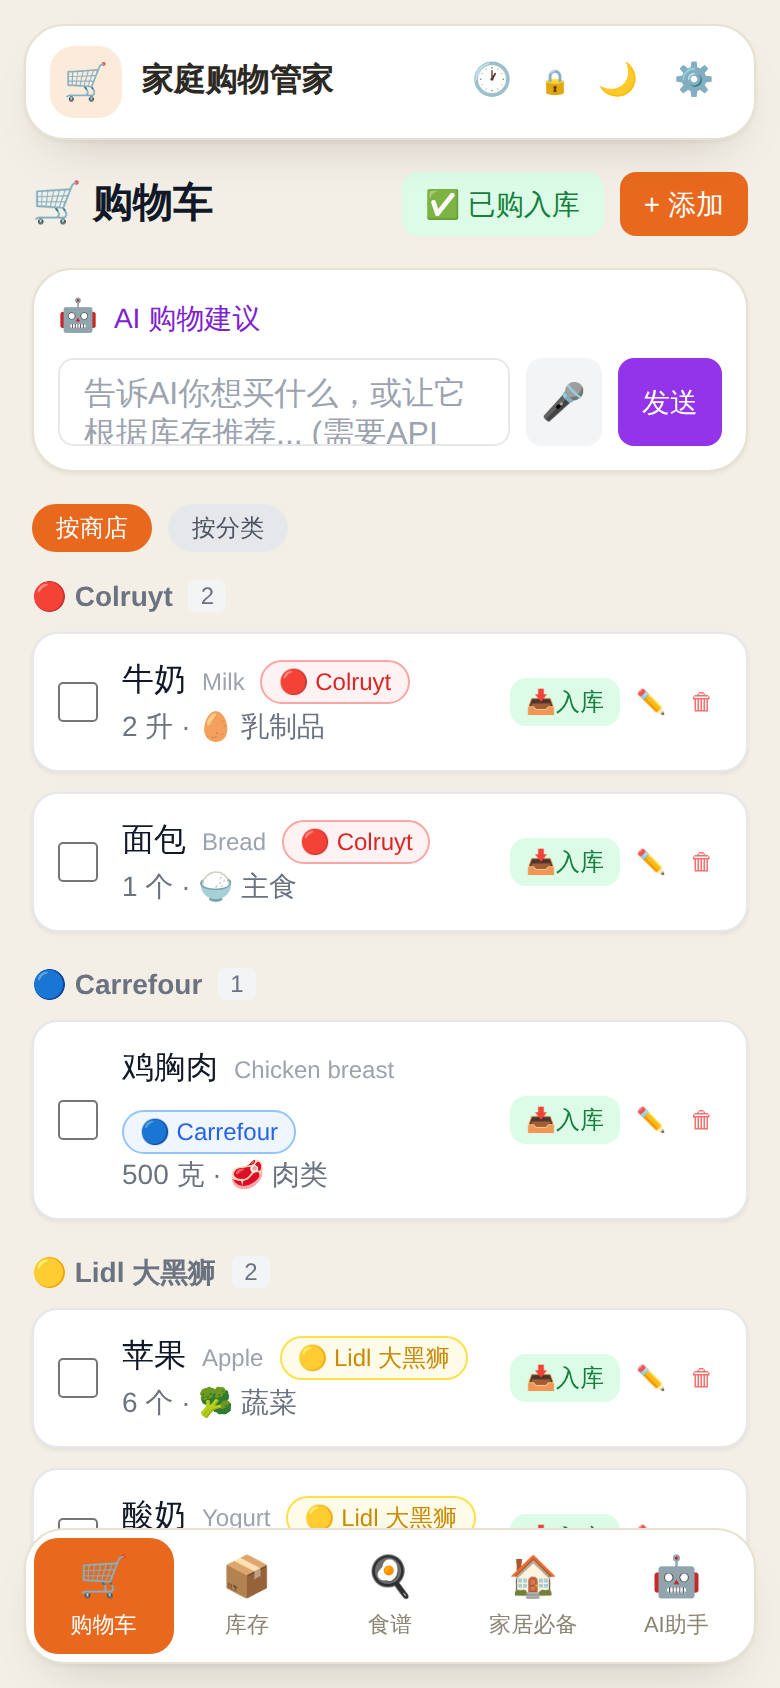
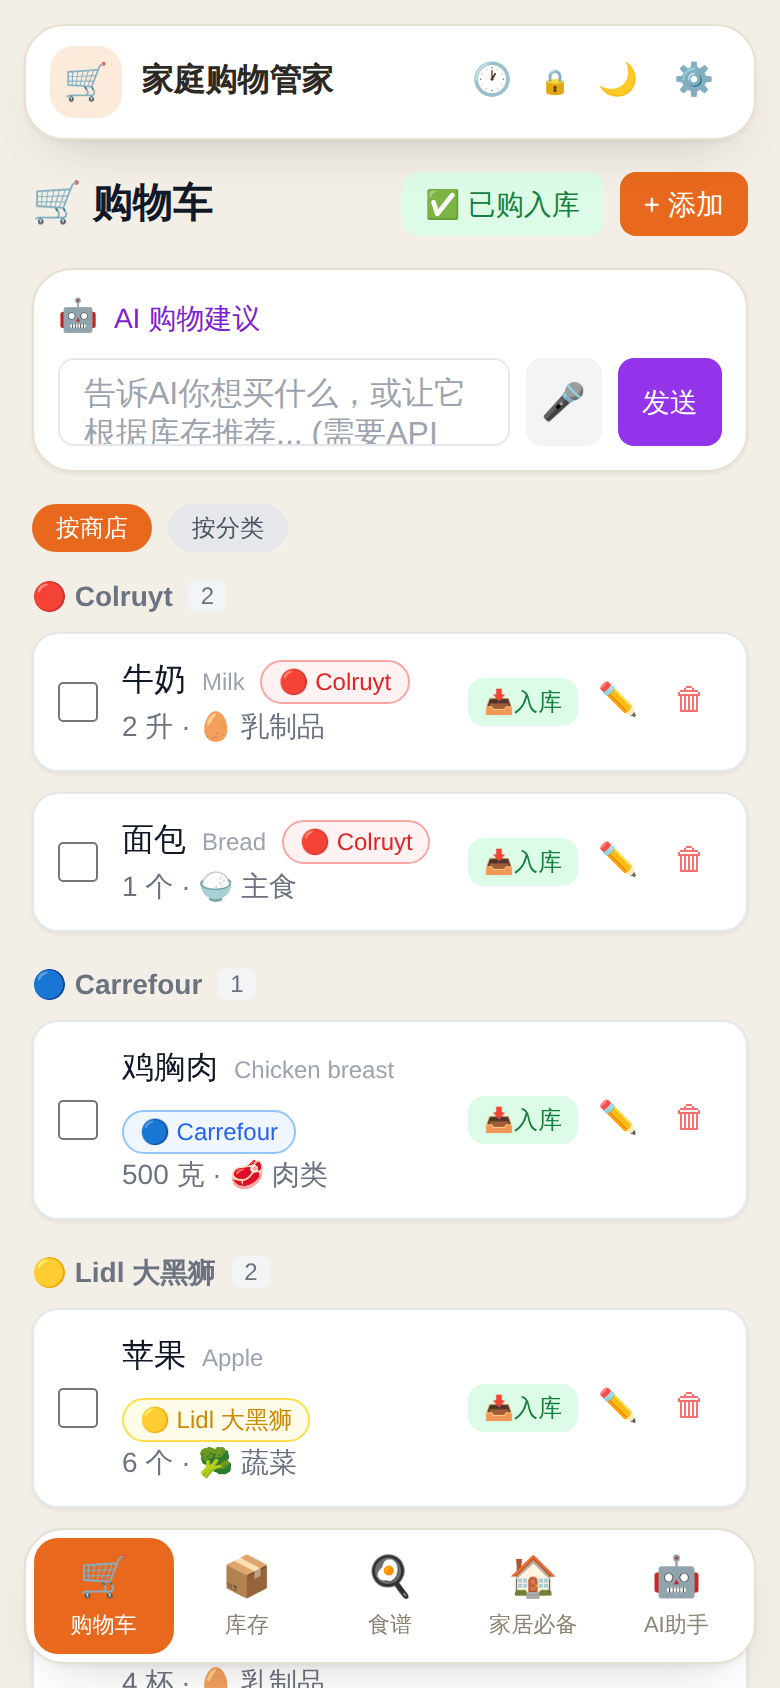
Lay inventory and household cards out in two rows everywhere
After the tap targets grew to 32px, a card at 320px — which is what both a
phone and one column of the desktop grid give it — had 64–70px left for the
name, and the category <select> truncated to its first character.

The card is now two rows: name and badges with the edit / cart / delete
icons on the first, the category select with − quantity + on the second. A
zero-height basis-full element forces the wrap, so no order tricks and no
responsive variants are needed; the same markup serves every width. Height
is unchanged at 96px, because name and select were already stacked in the
old layout. Measured at 360, 390 and 1024px: select renders its full
label, nothing overflows.

README screenshots regenerated to match.

Claude-Session: https://claude.ai/code/session_0178JdsXiQApUksyqeBxJYPQ

diff --git a/index.html b/index.html
@@ -2272,27 +2272,29 @@ const Inventory = {
         <span class="text-sm font-medium min-w-10 text-center">${esc(formatQty(item.quantity, item.unit))}</span>
         <button onclick="Inventory.adjustQty(${jsArg(item.id)},1)" class="w-8 h-8 rounded-lg bg-gray-100 dark:bg-gray-700 hover:bg-gray-200 dark:hover:bg-gray-600 flex items-center justify-center text-gray-600 dark:text-gray-300 font-bold">+</button>`;
     return `
-    <div class="item-card bg-white dark:bg-gray-800 rounded-xl p-3 border ${isLow ? 'border-red-300 dark:border-red-700' : unlimited ? 'border-purple-200 dark:border-purple-700' : 'border-gray-200 dark:border-gray-700'} flex items-center gap-2">
-      <div class="flex-1 min-w-0">
-        <div class="flex items-center gap-2 flex-wrap">
-          <span class="font-medium name-cn">${esc(item.nameCn)}</span>
-          ${item.nameEn ? `<span class="text-xs text-gray-400 name-en">${esc(item.nameEn)}</span>` : ''}
-          ${isLow ? '<span class="text-xs bg-red-100 dark:bg-red-900 text-red-600 dark:text-red-400 px-1.5 py-0.5 rounded">低库存</span>' : ''}
-          ${unlimited ? '<span class="text-xs bg-purple-100 dark:bg-purple-900 text-purple-600 dark:text-purple-400 px-1.5 py-0.5 rounded">常备</span>' : ''}
-        </div>
-        <div class="flex items-center gap-1 flex-wrap mt-0.5">
-          <select onchange="Inventory.changeCategory(${jsArg(item.id)},this.value)" class="text-xs max-w-full min-w-0 bg-gray-100 dark:bg-gray-700 border-0 rounded px-1 py-0.5 text-gray-500 dark:text-gray-400 cursor-pointer focus:outline-none focus:ring-1 focus:ring-blue-400">
-            ${catOptions(item.category)}
-          </select>
-          ${item.notes ? `<span class="text-xs text-gray-400">${esc(item.notes)}</span>` : ''}
-        </div>
+    <!-- 两行：「名称 | ✏🛒🗑」「分类 | − 数量 +」。手机和桌面都这样——桌面是三列网格，
+         一张卡也就 320px 宽，按钮放大到 32px 之后一行排不下；而名称 + 分类本来就叠成
+         两行，所以改成两行高度不变。中间那个 basis-full 的空元素负责强制换行。 -->
+    <div class="item-card bg-white dark:bg-gray-800 rounded-xl p-3 border ${isLow ? 'border-red-300 dark:border-red-700' : unlimited ? 'border-purple-200 dark:border-purple-700' : 'border-gray-200 dark:border-gray-700'} flex flex-wrap items-center gap-x-2 gap-y-0">
+      <div class="flex-1 min-w-0 flex items-center gap-2 flex-wrap">
+        <span class="font-medium name-cn">${esc(item.nameCn)}</span>
+        ${item.nameEn ? `<span class="text-xs text-gray-400 name-en">${esc(item.nameEn)}</span>` : ''}
+        ${isLow ? '<span class="text-xs bg-red-100 dark:bg-red-900 text-red-600 dark:text-red-400 px-1.5 py-0.5 rounded">低库存</span>' : ''}
+        ${unlimited ? '<span class="text-xs bg-purple-100 dark:bg-purple-900 text-purple-600 dark:text-purple-400 px-1.5 py-0.5 rounded">常备</span>' : ''}
       </div>
-      <div class="flex items-center gap-1 shrink-0">${qtyDisplay}</div>
       <div class="flex items-center gap-1 shrink-0">
         <button onclick="Modal.showEditInventory(${jsArg(item.id)})" class="w-8 h-8 flex items-center justify-center rounded-lg text-base text-blue-500 hover:bg-blue-50 dark:hover:bg-gray-700">✏</button>
         ${!unlimited ? `<button onclick="Inventory.addToCart(${jsArg(item.id)})" class="w-8 h-8 flex items-center justify-center rounded-lg text-base text-green-500 hover:bg-green-50 dark:hover:bg-gray-700" title="加入购物车">🛒</button>` : ''}
         <button onclick="Inventory.remove(${jsArg(item.id)})" class="w-8 h-8 flex items-center justify-center rounded-lg text-base text-red-400 hover:bg-red-50 dark:hover:bg-gray-700">🗑</button>
       </div>
+      <div class="basis-full h-0"></div>
+      <div class="flex-1 min-w-0 flex items-center gap-1 flex-wrap mt-1.5">
+        <select onchange="Inventory.changeCategory(${jsArg(item.id)},this.value)" class="text-xs max-w-full min-w-0 bg-gray-100 dark:bg-gray-700 border-0 rounded px-1 py-0.5 text-gray-500 dark:text-gray-400 cursor-pointer focus:outline-none focus:ring-1 focus:ring-blue-400">
+          ${catOptions(item.category)}
+        </select>
+        ${item.notes ? `<span class="text-xs text-gray-400">${esc(item.notes)}</span>` : ''}
+      </div>
+      <div class="flex items-center gap-1 shrink-0 mt-1.5">${qtyDisplay}</div>
     </div>`;
   },
 
@@ -2827,29 +2829,29 @@ const Household = {
 
   renderItem(item) {
     const isLow = item.minStock > 0 && item.quantity <= item.minStock;
-    return `<div class="item-card bg-white dark:bg-gray-800 rounded-xl p-3 border ${isLow ? 'border-red-300 dark:border-red-700' : 'border-gray-200 dark:border-gray-700'} flex items-center gap-2">
-      <div class="flex-1 min-w-0">
-        <div class="flex items-center gap-2 flex-wrap">
-          <span class="font-medium name-cn">${esc(item.nameCn)}</span>
-          ${item.nameEn ? `<span class="text-xs text-gray-400 name-en">${esc(item.nameEn)}</span>` : ''}
-          ${isLow ? '<span class="text-xs bg-red-100 dark:bg-red-900 text-red-600 dark:text-red-400 px-1.5 py-0.5 rounded">低库存</span>' : ''}
-        </div>
-        <div class="flex items-center gap-1 flex-wrap mt-0.5">
-          <select onchange="Household.changeCategory(${jsArg(item.id)},this.value)" class="text-xs max-w-full min-w-0 bg-gray-100 dark:bg-gray-700 border-0 rounded px-1 py-0.5 text-gray-500 dark:text-gray-400 cursor-pointer focus:outline-none focus:ring-1 focus:ring-blue-400">
-            ${catOptions(item.category)}
-          </select>
-          ${item.notes ? `<span class="text-xs text-gray-400">${esc(item.notes)}</span>` : ''}
-        </div>
-      </div>
-      <div class="flex items-center gap-1 shrink-0">
-        <button onclick="Household.adjustQty(${jsArg(item.id)},-1)" class="w-8 h-8 rounded-lg bg-gray-100 dark:bg-gray-700 hover:bg-gray-200 dark:hover:bg-gray-600 flex items-center justify-center font-bold">−</button>
-        <span class="text-sm font-medium min-w-10 text-center">${esc(formatQty(item.quantity, item.unit))}</span>
-        <button onclick="Household.adjustQty(${jsArg(item.id)},1)" class="w-8 h-8 rounded-lg bg-gray-100 dark:bg-gray-700 hover:bg-gray-200 dark:hover:bg-gray-600 flex items-center justify-center font-bold">+</button>
+    // 布局和 Inventory.renderItem 一样：两行，见那边的注释
+    return `<div class="item-card bg-white dark:bg-gray-800 rounded-xl p-3 border ${isLow ? 'border-red-300 dark:border-red-700' : 'border-gray-200 dark:border-gray-700'} flex flex-wrap items-center gap-x-2 gap-y-0">
+      <div class="flex-1 min-w-0 flex items-center gap-2 flex-wrap">
+        <span class="font-medium name-cn">${esc(item.nameCn)}</span>
+        ${item.nameEn ? `<span class="text-xs text-gray-400 name-en">${esc(item.nameEn)}</span>` : ''}
+        ${isLow ? '<span class="text-xs bg-red-100 dark:bg-red-900 text-red-600 dark:text-red-400 px-1.5 py-0.5 rounded">低库存</span>' : ''}
       </div>
       <div class="flex items-center gap-1 shrink-0">
         <button onclick="Modal.showEditHousehold(${jsArg(item.id)})" class="w-8 h-8 flex items-center justify-center rounded-lg text-base text-blue-500 hover:bg-blue-50 dark:hover:bg-gray-700">✏</button>
         <button onclick="Household.addToCart(${jsArg(item.id)})" class="w-8 h-8 flex items-center justify-center rounded-lg text-base text-green-500 hover:bg-green-50 dark:hover:bg-gray-700" title="加入购物车">🛒</button>
         <button onclick="Household.remove(${jsArg(item.id)})" class="w-8 h-8 flex items-center justify-center rounded-lg text-base text-red-400 hover:bg-red-50 dark:hover:bg-gray-700">🗑</button>
+      </div>
+      <div class="basis-full h-0"></div>
+      <div class="flex-1 min-w-0 flex items-center gap-1 flex-wrap mt-1.5">
+        <select onchange="Household.changeCategory(${jsArg(item.id)},this.value)" class="text-xs max-w-full min-w-0 bg-gray-100 dark:bg-gray-700 border-0 rounded px-1 py-0.5 text-gray-500 dark:text-gray-400 cursor-pointer focus:outline-none focus:ring-1 focus:ring-blue-400">
+          ${catOptions(item.category)}
+        </select>
+        ${item.notes ? `<span class="text-xs text-gray-400">${esc(item.notes)}</span>` : ''}
+      </div>
+      <div class="flex items-center gap-1 shrink-0 mt-1.5">
+        <button onclick="Household.adjustQty(${jsArg(item.id)},-1)" class="w-8 h-8 rounded-lg bg-gray-100 dark:bg-gray-700 hover:bg-gray-200 dark:hover:bg-gray-600 flex items-center justify-center font-bold">−</button>
+        <span class="text-sm font-medium min-w-10 text-center">${esc(formatQty(item.quantity, item.unit))}</span>
+        <button onclick="Household.adjustQty(${jsArg(item.id)},1)" class="w-8 h-8 rounded-lg bg-gray-100 dark:bg-gray-700 hover:bg-gray-200 dark:hover:bg-gray-600 flex items-center justify-center font-bold">+</button>
       </div>
     </div>`;
   },

diff --git a/ROADMAP.md b/ROADMAP.md
@@ -56,12 +56,6 @@
 
 （这套曾经实现过一版，后来决定押后，实现细节见本节。真要做的时候照着写就行。）
 
-### 1.5 库存 / 家居卡片在窄屏上改两行布局
-现在一张卡片是「名称 | − 数量 + | ✏🛒🗑」一行排开。按钮放大到 32px 之后，
-360px 宽的安卓机上名称列只剩 70px，分类下拉被截成「🥦 蔬」。
-建议改成：第一行「名称 + ✏🛒🗑」，第二行「分类下拉 + − 数量 +」。
-桌面端可以用 `sm:` 变体保持原样。这是外观改动，要先看一眼再定。
-
 ### 2. 备份（手机优先）
 localStorage 会丢：清缓存、换浏览器、iOS 长期不打开 Safari 都可能清掉。
 现在只有一个手动「导出数据」按钮，不够。
